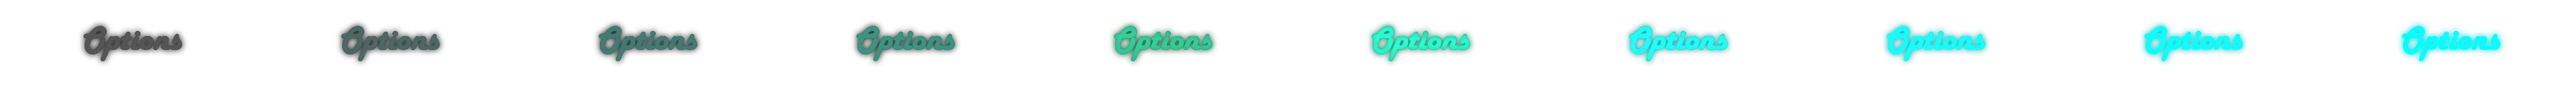
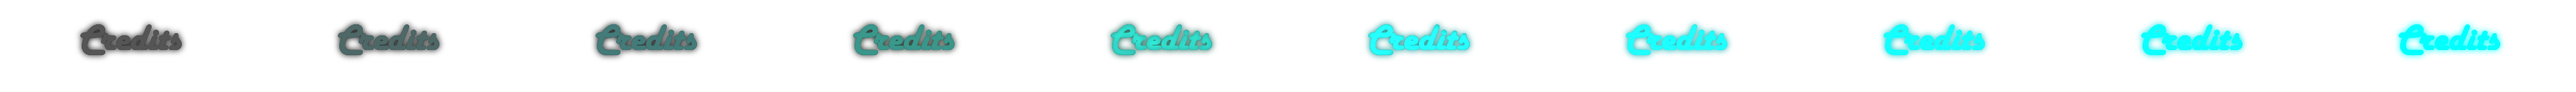
Added Credits menu (#88)
* Pulled master branch into AI

* Fixed bug where AI get stuck on each others heads

* Credits Screen Added

diff --git a/Source/OptionsScene.cpp b/Source/OptionsScene.cpp
@@ -4,6 +4,8 @@
 /// 
 /// </summary>
 OptionsScene::OptionsScene()
+	: m_txtImage(new Entity("Credits")),
+	  m_camera(false)
 {
 }
 
@@ -20,7 +22,12 @@ OptionsScene::~OptionsScene()
 /// </summary>
 void OptionsScene::start()
 {
-	std::cout << "Starting Options Scene\n";
+	auto pos = new PositionComponent(960, 540);
+	m_txtImage->addComponent("Pos", pos);
+	auto sprite = new SpriteComponent(pos, Vector2f(1920, 1080), Vector2f(1920, 1080), Scene::resources().getTexture("Credits"), 0);
+	m_txtImage->addComponent("Sprite", sprite);
+
+	Scene::systems()["Render"]->addComponent(&m_txtImage->getComponent("Sprite"));
 }
 
 /// <summary>
@@ -28,7 +35,9 @@ void OptionsScene::start()
 /// </summary>
 void OptionsScene::stop()
 {
-	std::cout << "Stopping Options Scene\n";
+	Scene::systems()["Render"]->deleteComponent(&m_txtImage->getComponent("Sprite"));
+	delete(&m_txtImage->getComponent("Pos"));
+	delete(&m_txtImage->getComponent("Sprite"));
 }
 
 /// <summary>
@@ -46,7 +55,7 @@ void OptionsScene::update(double dt)
 /// <param name="renderer"></param>
 void OptionsScene::draw(SDL_Renderer & renderer)
 {
-
+	static_cast<RenderSystem *>(Scene::systems()["Render"])->render(renderer, m_camera);
 }
 
 /// <summary>
@@ -55,5 +64,11 @@ void OptionsScene::draw(SDL_Renderer & renderer)
 /// <param name="input"></param>
 void OptionsScene::handleInput(InputSystem& input)
 {
+	Scene::systems()["Input"]->update(0);
+	m_input = static_cast<InputComponent *>(input.m_components.at(0));
 
+	if (m_input->m_current["ABTN"])
+	{
+		Scene::goToScene("Main Menu");
+	}
 }

diff --git a/Source/AchievementsScene.cpp b/Source/AchievementsScene.cpp
@@ -106,7 +106,6 @@ void AchievementsScene::start()
 		}
 	}
 
-
 	for (auto& icon : m_icons)
 		Scene::systems()["Render"]->addComponent(&icon.getComponent("Sprite"));
 
@@ -160,7 +159,6 @@ void AchievementsScene::update(double dt)
 				a->playAnimation("Unlocked", false);
 			}
 		}
-
 
 		m_animTimer = 2.25f;
 	}
@@ -240,5 +238,5 @@ void AchievementsScene::handleInput(InputSystem & input)
 
 void AchievementsScene::draw(SDL_Renderer & renderer)
 {
-	static_cast<RenderSystem*>(Scene::systems()["Render"])->render(renderer, m_camera);;
+	static_cast<RenderSystem*>(Scene::systems()["Render"])->render(renderer, m_camera);
 }

diff --git a/Header/OptionsScene.h b/Header/OptionsScene.h
@@ -1,8 +1,13 @@
 #ifndef OPTIONSSCENE_H
 #define OPTIONSSCENE_H
 
+#include "Camera.h"
 #include "Scene.h"
-#include "../Libraries/SDL_TTF/include/SDL_ttf.h"
+#include "Entity.h"
+
+#include "PositionComponent.h"
+#include "SpriteComponent.h"
+#include "RenderSystem.h"
 
 class OptionsScene : public Scene
 {
@@ -15,6 +20,10 @@ public:
 	void draw(SDL_Renderer& renderer);
 	void handleInput(InputSystem& input);
 private:
+	Camera m_camera;
+	InputComponent* m_input;	
+	Entity * m_txtImage;
+	bool m_initialSetup;
 };
 
 #endif

diff --git a/Source/ResourceManager.cpp b/Source/ResourceManager.cpp
@@ -30,6 +30,7 @@ void ResourceHandler::loadTextures(SDL_Renderer& renderer)
 	m_map["Game BG1"] = loadFromPath("Backgrounds-02.png", renderer);
 	m_map["Game BG2"] = loadFromPath("Backgrounds-03.png", renderer);
 	m_map["Game BG3"] = loadFromPath("Backgrounds-04.png", renderer);
+	m_map["Credits"] = loadFromPath("credits.png", renderer);
 
 	auto colours = std::vector<std::string>({ "Green", "Blue", "Orange", "Pink" });
 
